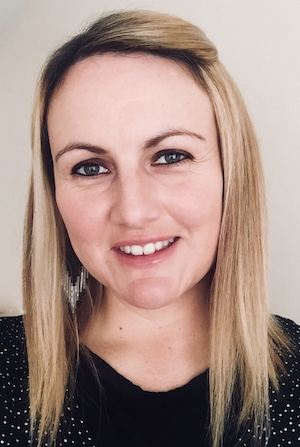
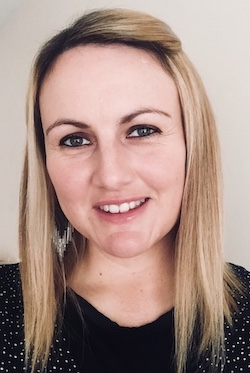
edit loader

diff --git a/index.html b/index.html
@@ -17,27 +17,56 @@
         display: grid;
         place-items: center;
       }
-      .loader span {
-        font-size: 28px;
-        font-family: "Courier New", Courier, monospace;
-        font-weight: 600;
-        animation: blur 2.5s linear infinite;
-        line-height: 20px;
-        transition: all 0.5s;
-        letter-spacing: 0.2em;
-        color: white;
-      }
+      .loader {
+  width: 48px;
+  height: 48px;
+  display: block;
+  margin: 15px auto;
+  position: relative;
+  color: #FFF;
+  box-sizing: border-box;
+  animation: rotation_19 1s linear infinite;
+}
 
-      @keyframes blur {
-        0%,
-        90% {
-          filter: blur(0);
-        }
+.loader::after,
+.loader::before {
+  content: '';
+  box-sizing: border-box;
+  position: absolute;
+  width: 24px;
+  height: 24px;
+  top: 0;
+  background-color: #FFF;
+  border-radius: 50%;
+  animation: scale50 1s infinite ease-in-out;
+}
 
-        50% {
-          filter: blur(3px);
-        }
-      }
+.loader::before {
+  top: auto;
+  bottom: 0;
+  background-color: #FF3D00;
+  animation-delay: 0.5s;
+}
+
+@keyframes rotation_19 {
+  0% {
+    transform: rotate(0deg);
+  }
+
+  100% {
+    transform: rotate(360deg);
+  }
+}
+
+@keyframes scale50 {
+  0%, 100% {
+    transform: scale(0);
+  }
+
+  50% {
+    transform: scale(1);
+  }
+} 
 
       body {
         background-color: #191a21;
@@ -47,18 +76,7 @@
   <body>
     <div id="root">
       <div class="loader-container">
-        <div class="loader">
-          <span>L</span>
-          <span>O</span>
-          <span>A</span>
-          <span>D</span>
-          <span>I</span>
-          <span>N</span>
-          <span>G</span>
-          <span>.</span>
-          <span>.</span>
-          <span>.</span>
-        </div>
+        <span class="loader"></span>
     </div>
     <script type="module" src="/src/main.jsx"></script>
   </body>

diff --git a/src/constants/index.js b/src/constants/index.js
@@ -541,18 +541,18 @@ export const testimonialData = [
   },
   {
     id: 6,
-    avatar: camiAvatar,
-    name: "Cami",
-    company: "Head of DevRel, Fuel Network",
-    testimonial: "👏👏👏👏 Proud of you!",
+    avatar: matheusAvatar,
+    name: "Matheus Pagani",
+    company: "CEO, BFT Solutions",
+    testimonial: `Congratulations @hayleyiscoding! You have 'mined' this NFT with true talent and enduring effort! Super deserved. You are 🔥`,
   },
   {
     id: 7,
-    avatar: kristenAvatar,
-    name: "Kristen",
-    company: "Women Build Web3",
+    avatar: sallyAvatar,
+    name: "Sally",
+    company: "Bubble Blowers Swim School",
     testimonial:
-      "Hayley, holy smokes! This was such an awesome article to read... You've got yourself a new Hashnode subscriber :D",
+      "Hayley did an amazing job with our website! She really captured the essence of what Bubble Blowers is all about. I was able to increase my student numbers dramatically after the website launch.",
   },
   {
     id: 8,

diff --git a/src/components/About.jsx b/src/components/About.jsx
@@ -84,7 +84,7 @@ const About = () => {
               alt="Background blob"
             /> */}
 
-          <div className="relative md:order-2 pt-5 md:pt-0">
+          <div className="relative md:order-2 mt-10 md:pt-0">
             <LazyLoadImage
               className="text-white grayscale absolute inset-x-0 bottom-45 -mb-48 -translate-x-1/2 left-1/2 mt-10 lg:mt-20 rotate-30"
               src={blob}
@@ -92,7 +92,7 @@ const About = () => {
             />
 
             <LazyLoadImage
-              className="text-white grayscale relative w-full md:max-w-xs xl:max-w-md xl:mx-auto 2xl:origin-bottom 2xl:scale-110 fancy-border-radius p-12pb-2 md:p-14"
+              className="text-white grayscale relative md:max-w-xs xl:max-w-lg xl:mx-auto 2xl:origin-bottom 2xl:scale-110 fancy-border-radius pb-2 p-5 lg:w-[25rem] md:p-14 lg:p-5"
               src={HayleyProfile}
               alt="Hayley's profile picture"
               effect="blur"
